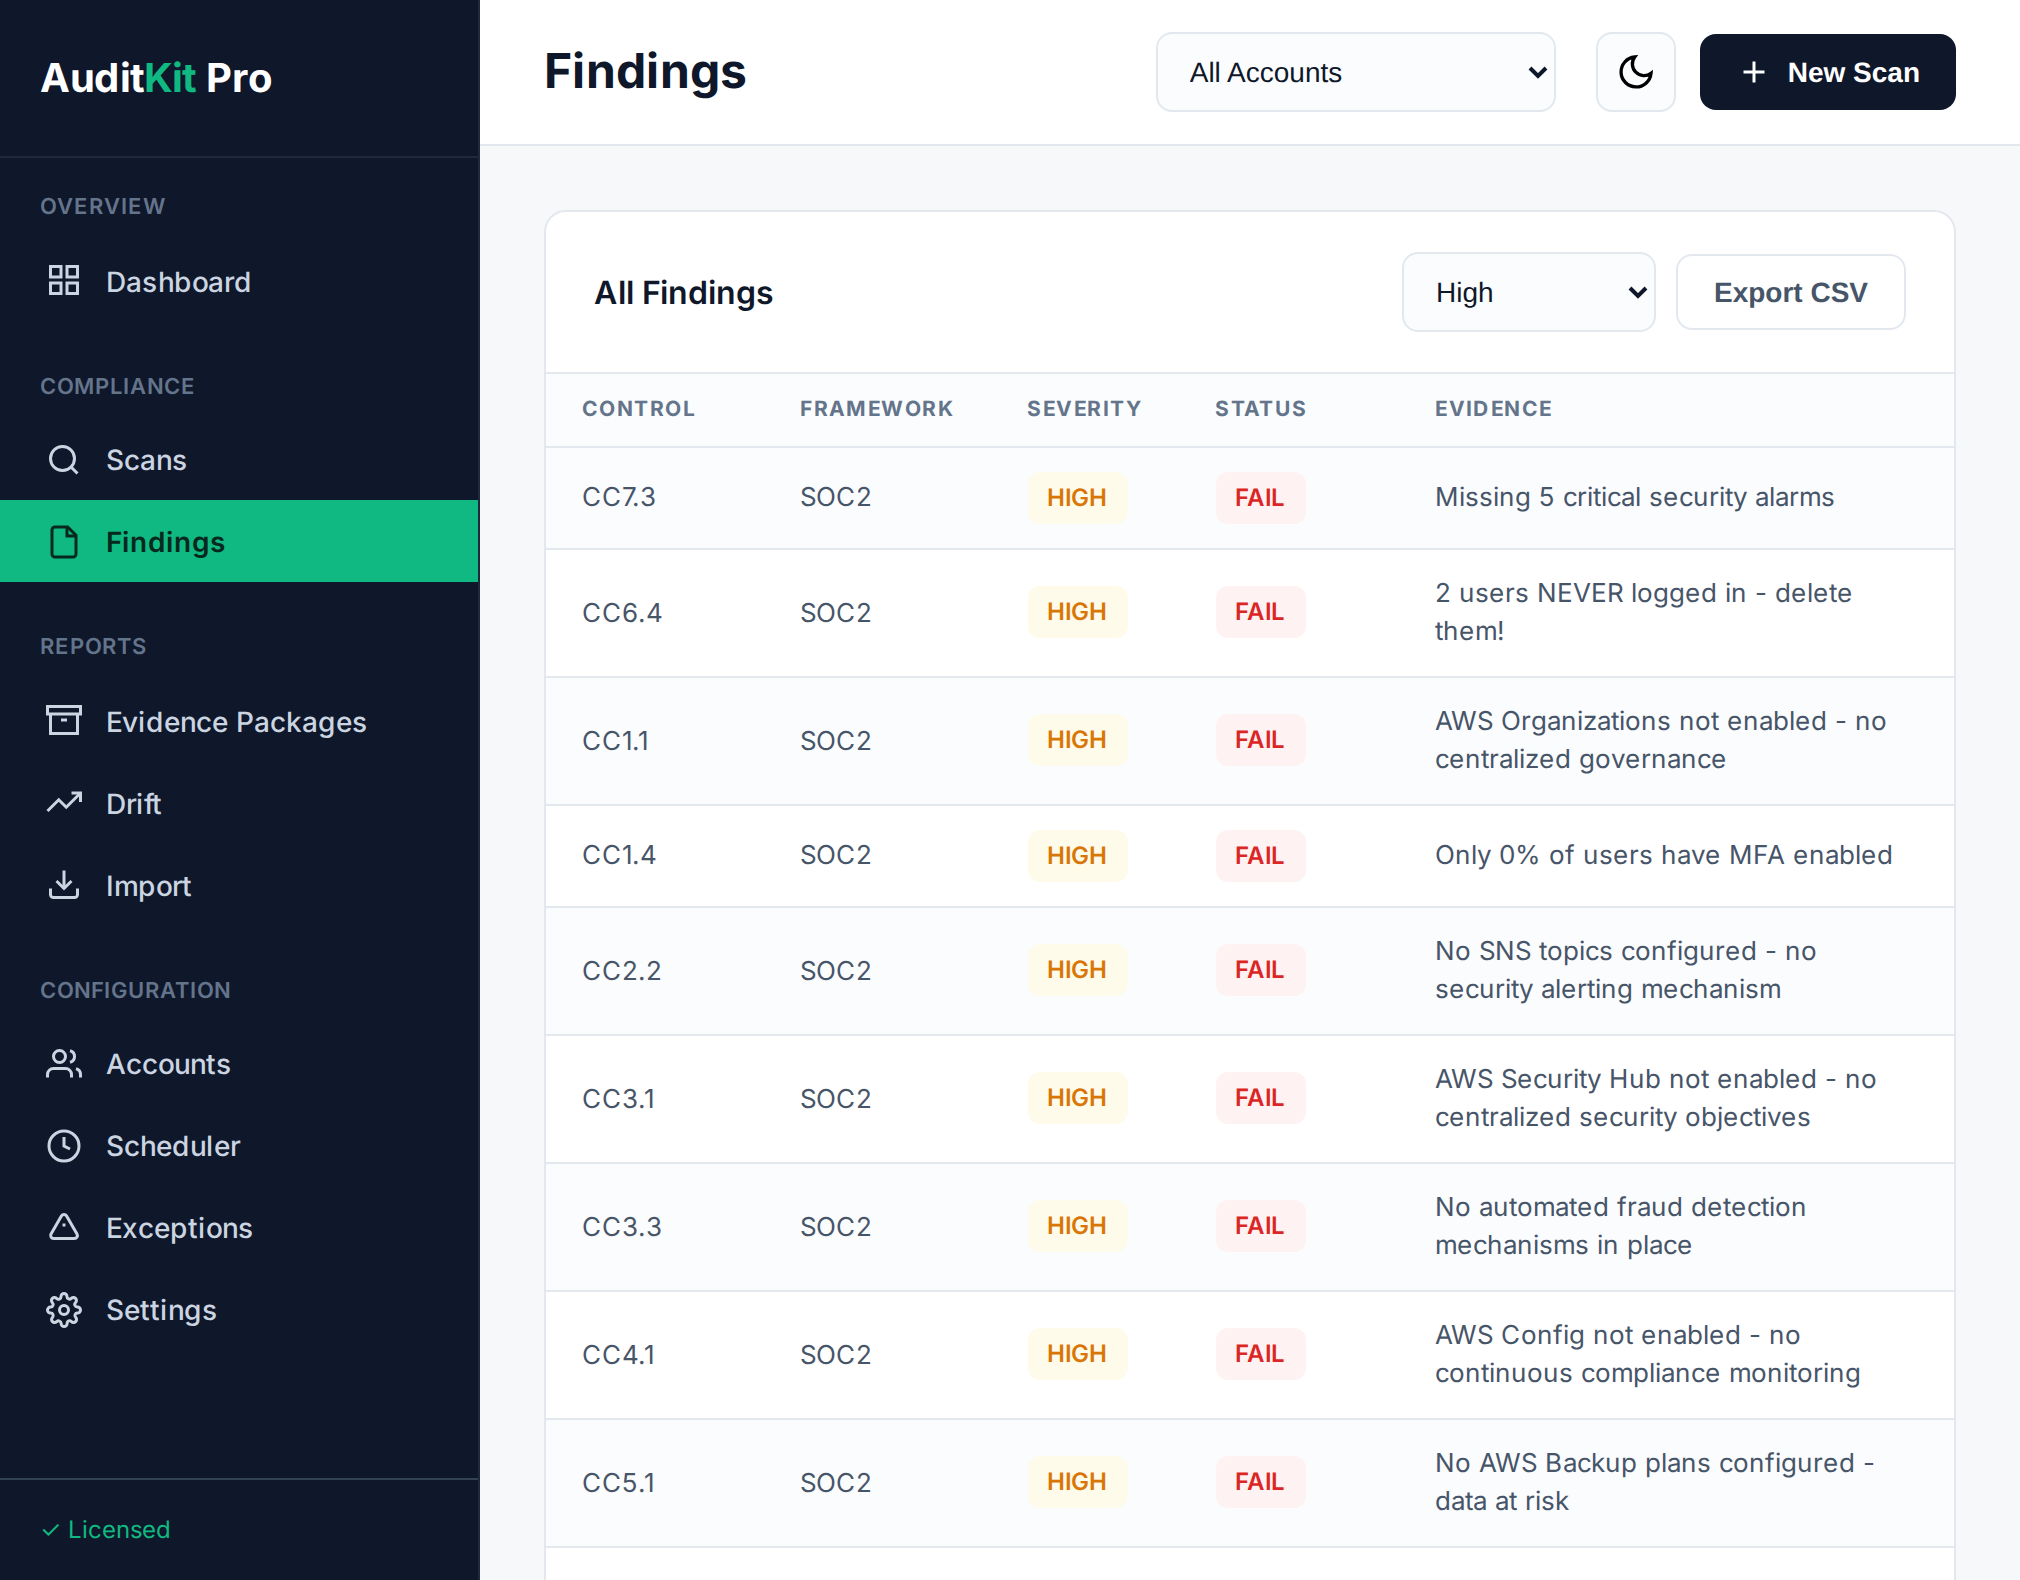
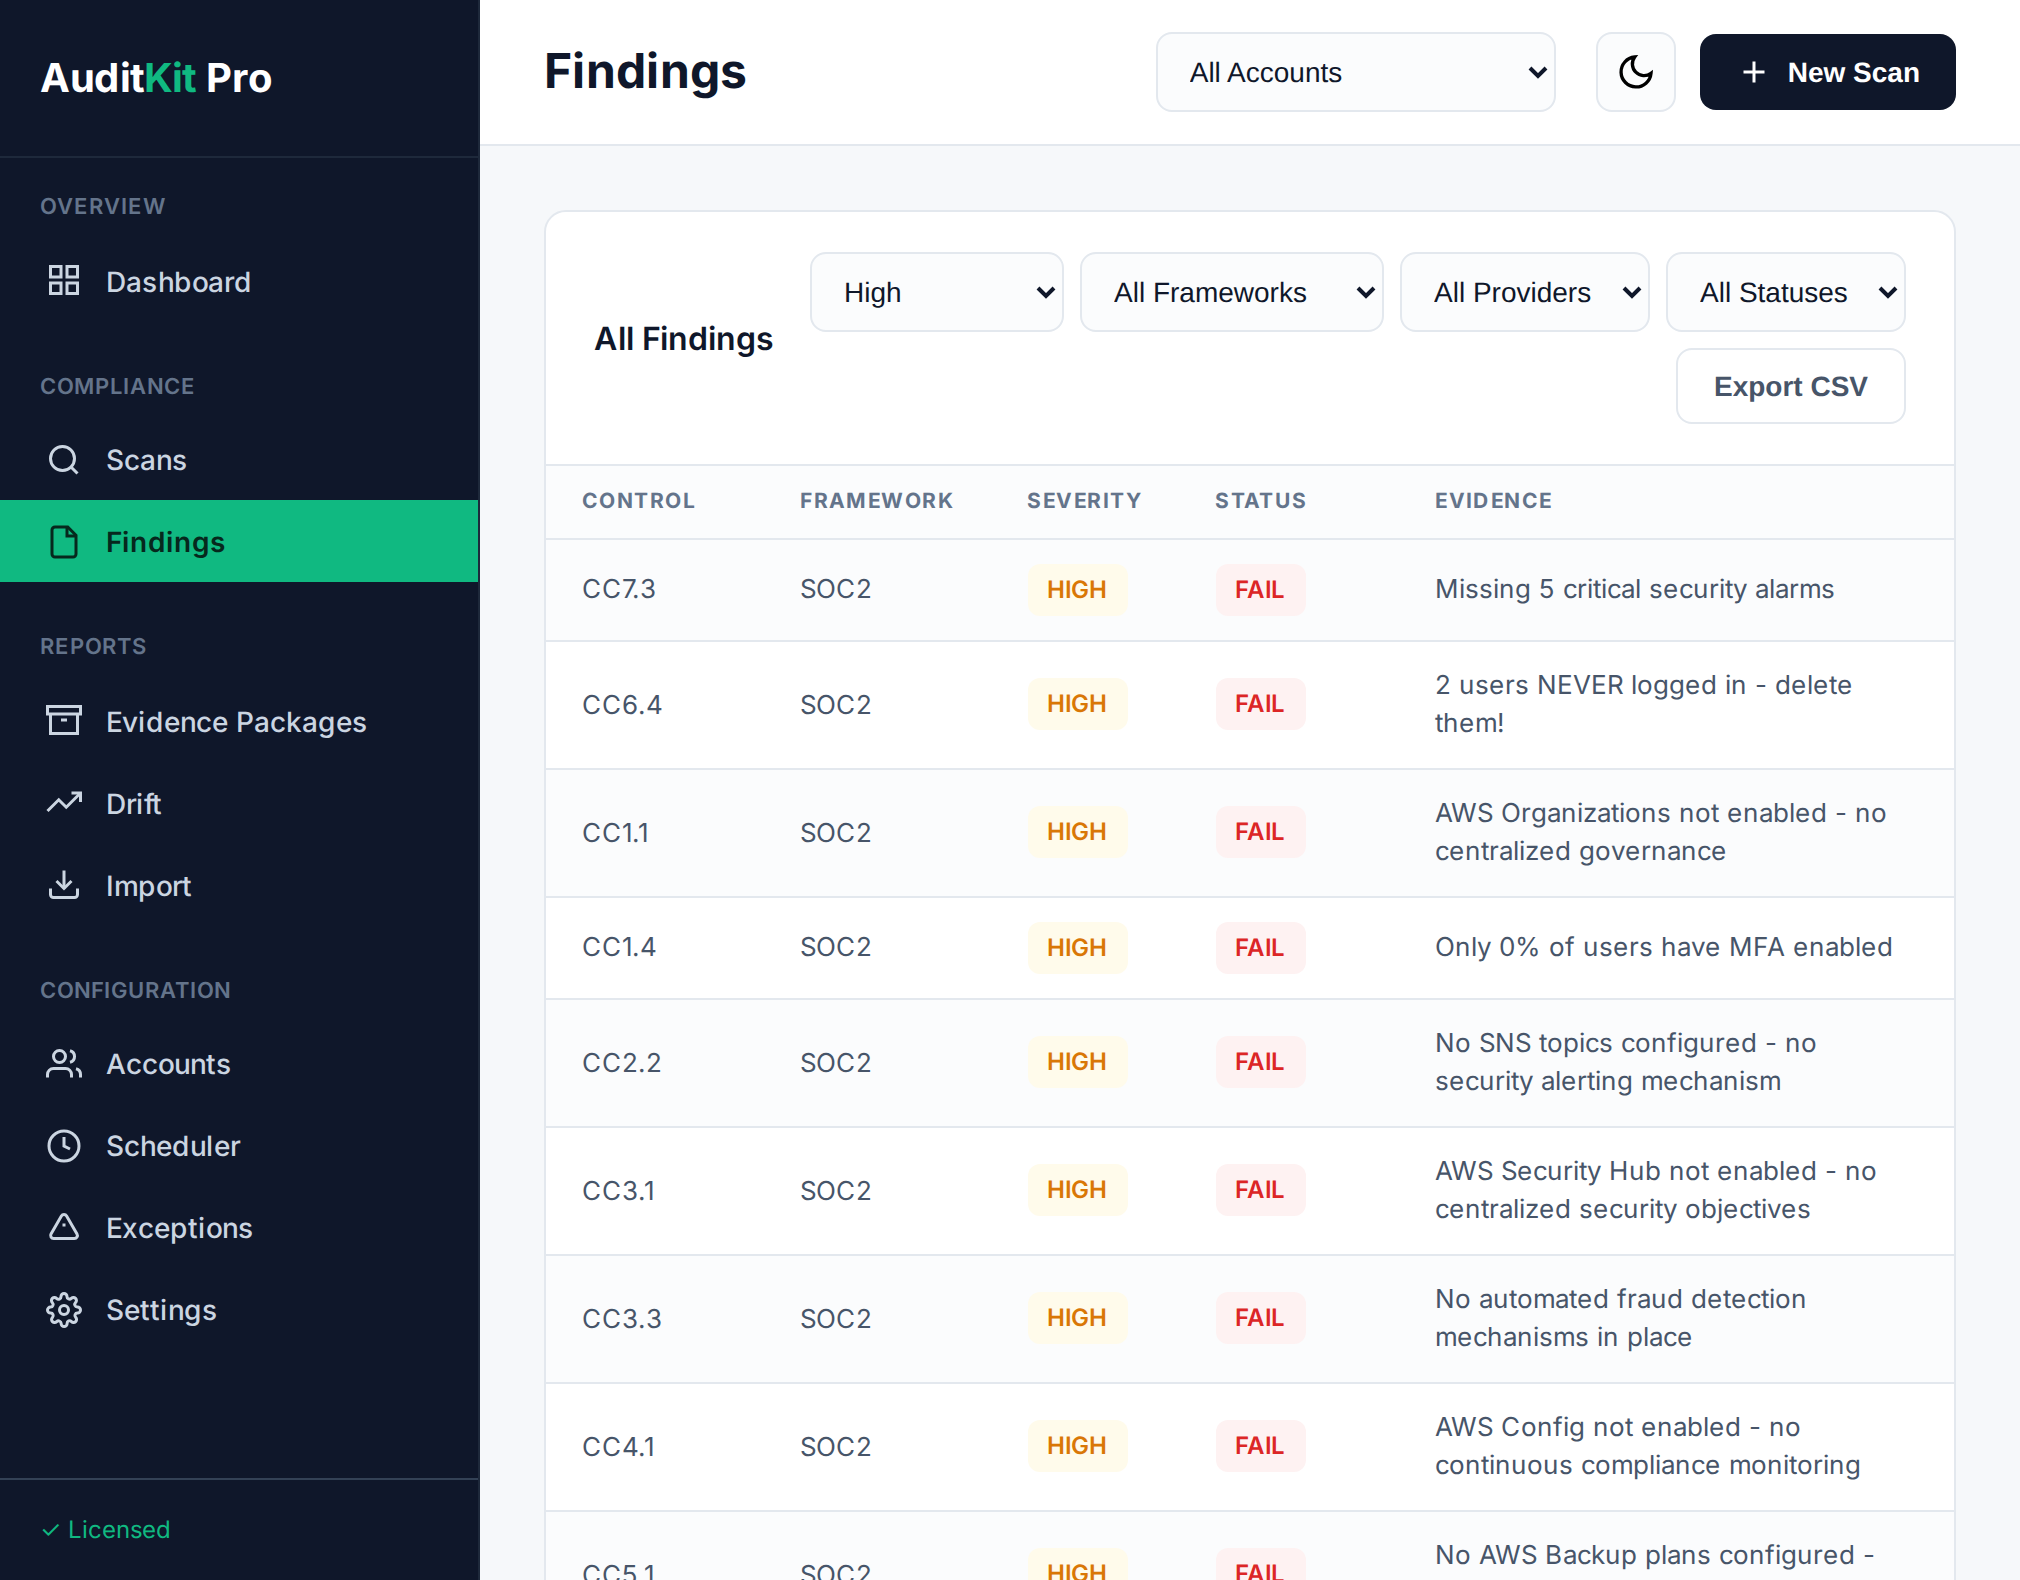
Site: correct the scan history claim and refresh Desktop screenshots
The Desktop has no search, so 'browse all past scans with search and filtering'
was not true. Findings can now be filtered by severity, framework, provider and
status, which is what the copy says.

Screenshots regenerated from the current build.

diff --git a/site/index.html b/site/index.html
@@ -218,7 +218,7 @@
                 </div>
                 <div class="card">
                     <h3>Scan History &amp; Findings</h3>
-                    <p class="mb-0">Browse all past scans with search and filtering. Drill into findings by severity, framework, or provider. Export to PDF/HTML/CSV.</p>
+                    <p class="mb-0">Browse every past scan. Filter findings by severity, framework, provider or status. Export to PDF, HTML or CSV.</p>
                 </div>
                 <div class="card">
                     <h3>Everything in One Place</h3>
